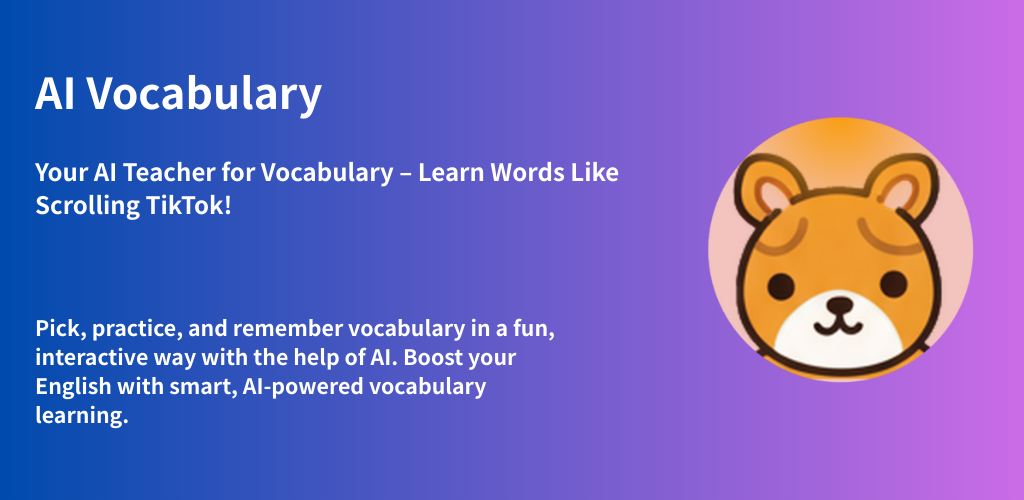
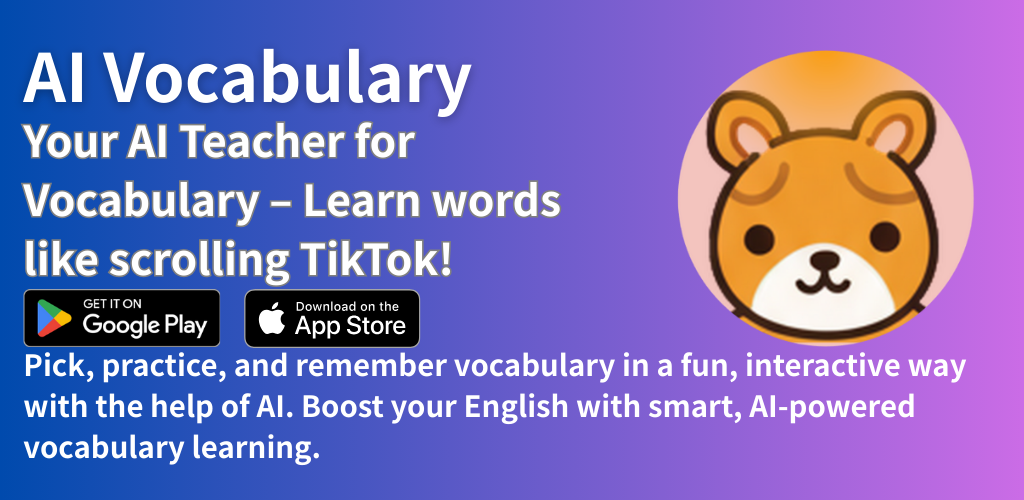
modified feature graphic to center and larger text for more attractive

diff --git a/index.html b/index.html
@@ -9,7 +9,7 @@
     <!-- Open Graph tags (Facebook, LinkedIn, LINE 等) -->
     <meta property="og:title" content="AI Vocabulary - Your AI Teacher for Vocabulary Learning">
     <meta property="og:description"
-        content="Learn vocabulary with AI! Practice speaking, build sentences, and remember words faster.">
+        content="Learn vocabulary with AI. Practice speaking, build sentences, and remember words faster.">
     <meta property="og:image" content="https://ai-vocabulary.com/img/feature_graphic.png">
     <meta property="og:url" content="https://ai-vocabulary.com">
     <meta property="og:type" content="website">
@@ -18,7 +18,7 @@
     <meta name="twitter:card" content="summary_large_image">
     <meta name="twitter:title" content="AI Vocabulary - Your AI Teacher for Vocabulary Learning">
     <meta name="twitter:description"
-        content="Learn vocabulary with AI! Practice speaking, build sentences, and remember words faster.">
+        content="Learn vocabulary with AI. Practice speaking, build sentences, and remember words faster.">
     <meta name="twitter:image" content="https://ai-vocabulary.com/img/feature_graphic.png">
 
     <link rel="stylesheet" href="style.css">
